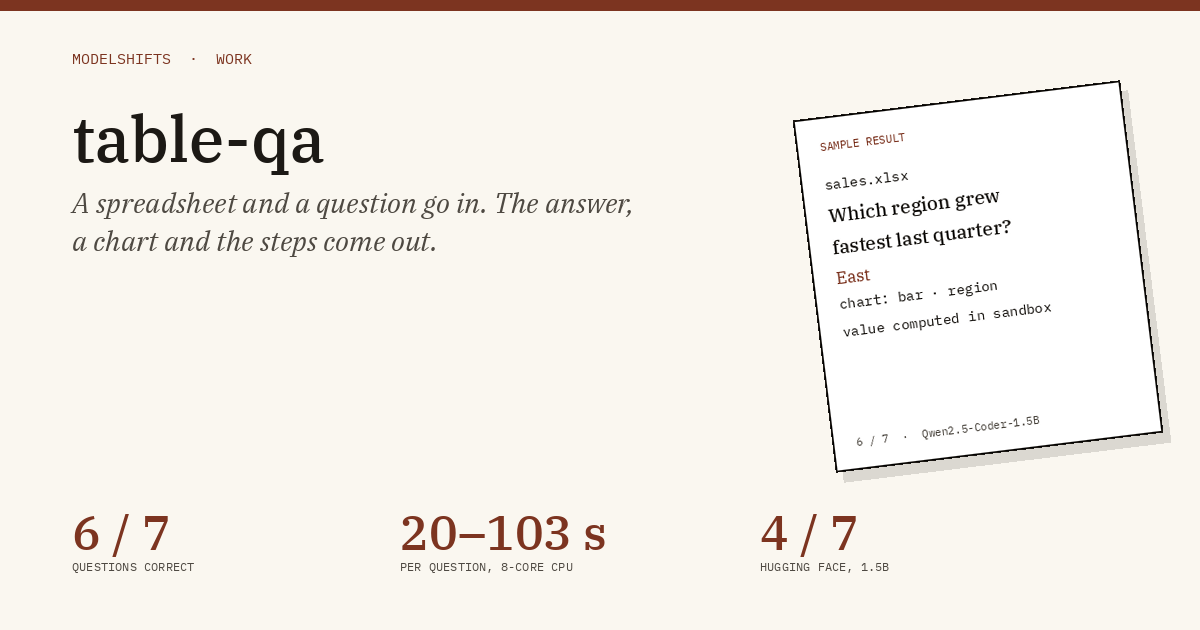
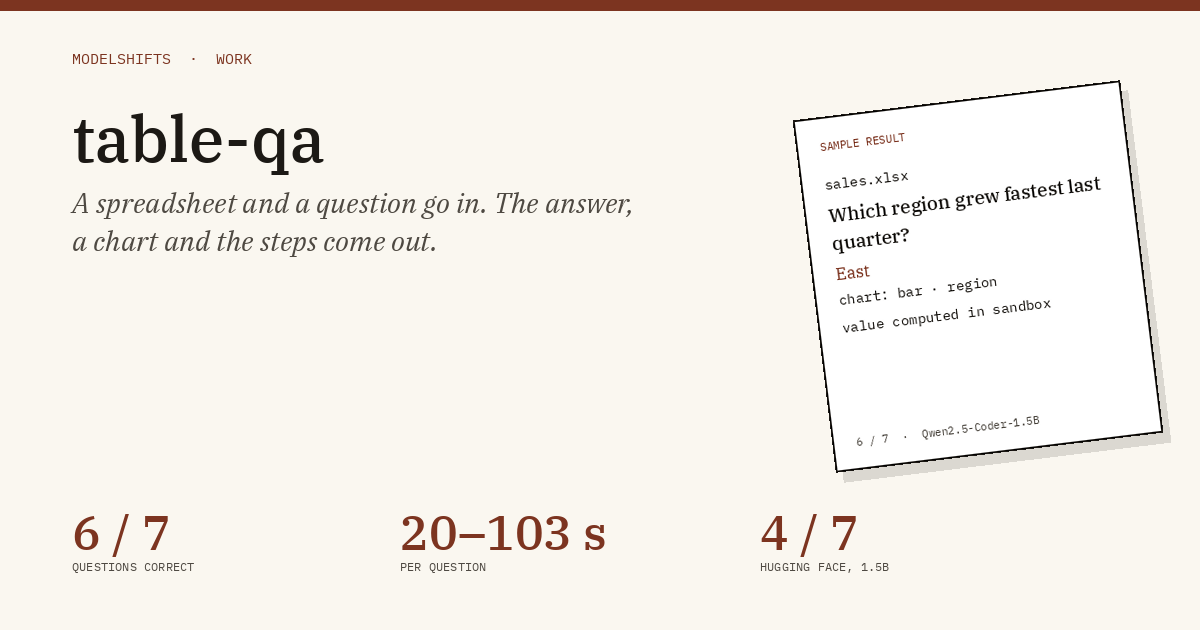
Drop the Notes section and test-condition wording.

Changed region(s): [[0.6783, 0.3619, 0.8942, 0.5429], [0.8325, 0.2714, 0.925, 0.3317], [0.4317, 0.8746, 0.4625, 0.9048]]

diff --git a/README.md b/README.md
@@ -13,9 +13,9 @@
 </p>
 
 <p align="center">
-  <img src="assets/demo.gif" alt="Web demo on a synthetic sales workbook: the question “Which region grew fastest last quarter?” is asked, and the answer East appears with a bar chart of growth by region and the steps that produced it." width="100%">
+  <img src="assets/demo.gif" alt="Web demo on a sales workbook: the question “Which region grew fastest last quarter?” is asked, and the answer East appears with a bar chart of growth by region and the steps that produced it." width="100%">
 </p>
-<p align="center"><sub>Web demo on the synthetic workbook (<a href="assets/demo.mp4">MP4</a>). The recording replays a result computed by Qwen2.5-Coder-1.5B-Instruct (Q4_K_M) on CPU.</sub></p>
+<p align="center"><sub>Web demo on the workbook (<a href="assets/demo.mp4">MP4</a>). The recording replays a result computed by Qwen2.5-Coder-1.5B-Instruct (Q4_K_M).</sub></p>
 
 <p align="center">
   <img src="assets/results.svg" alt="Evaluation highlights: 6 of 7 questions correct with the 1.5B model on the API backend; 20 to 103 seconds per question; 4 of 7 on the Hugging Face backend with the same 1.5B size." width="100%">
@@ -45,13 +45,13 @@ The pipeline is five steps.
 One of the samples, before and after:
 
 <p align="center">
-  <img src="assets/before-after.png" alt="Left: the profile of the synthetic workbook sales.xlsx, with sheets and column types. Right: the answer East to “Which region grew fastest last quarter?”, with a bar chart of growth by region." width="100%">
+  <img src="assets/before-after.png" alt="Left: the profile of the workbook sales.xlsx, with sheets and column types. Right: the answer East to “Which region grew fastest last quarter?”, with a bar chart of growth by region." width="100%">
 </p>
-<p align="center"><sub>Synthetic workbook <code>sales.xlsx</code>. Answer “East,” which matches the ground truth. Measured by <a href="scripts/evaluate.py"><code>scripts/evaluate.py</code></a>.</sub></p>
+<p align="center"><sub><code>sales.xlsx</code>. Answer “East,” which matches the ground truth. <a href="scripts/evaluate.py"><code>scripts/evaluate.py</code></a>.</sub></p>
 
 ## Results
 
-On seven questions against one synthetic sales workbook (and the same sales rows as a CSV), the API backend with Qwen2.5-Coder-1.5B-Instruct (Q4_K_M) got **6 of 7** values correct, in **20.1–103.5 seconds** per question on an 8-core CPU.
+On seven questions against one sales workbook (and the same sales rows as a CSV), the API backend with Qwen2.5-Coder-1.5B-Instruct (Q4_K_M) got **6 of 7** values correct, in **20.1–103.5 seconds** per question.
 
 The one miss is `top_region`: “Which region has the highest total revenue?” expected North and came back as East.
 
@@ -66,9 +66,9 @@ The one miss is `top_region`: “Which region has the highest total revenue?” 
 | csv_total_revenue | What is the total revenue? (sales.csv) | 43290 | 43290 | yes | 20.1 |
 | **All** | | | | **6/7** | **20.1–103.5** |
 
-**Methodology.** One synthetic workbook (`samples/sales.xlsx`, sheets `sales` and `returns`) and `samples/sales.csv`, seven questions in [`samples/questions.json`](samples/questions.json). All names and figures are fictional. A question counts as correct when the computed value matches that ground truth (dates as ISO, numbers exact, strings case-insensitive). The value comes from running the generated pandas in the sandbox, not from the wording of the sentence. “Last quarter” is the calendar quarter of the latest date; “grew fastest” is the largest percentage change in revenue between that quarter and the previous one. Run with [`python scripts/evaluate.py`](scripts/evaluate.py). API backend, Qwen2.5-Coder-1.5B-Instruct (Q4_K_M) behind a local llama.cpp server, 8-core CPU (15 GB RAM, no GPU), 12 November 2026. The raw table is in [`docs/eval.md`](docs/eval.md).
+**Methodology.** One workbook (`samples/sales.xlsx`, sheets `sales` and `returns`) and `samples/sales.csv`, seven questions in [`samples/questions.json`](samples/questions.json). A question counts as correct when the computed value matches that ground truth (dates as ISO, numbers exact, strings case-insensitive). The value comes from running the generated pandas in the sandbox, not from the wording of the sentence. “Last quarter” is the calendar quarter of the latest date; “grew fastest” is the largest percentage change in revenue between that quarter and the previous one. [`python scripts/evaluate.py`](scripts/evaluate.py). API backend, Qwen2.5-Coder-1.5B-Instruct (Q4_K_M) behind a local llama.cpp server, 12 November 2026. The raw table is in [`docs/eval.md`](docs/eval.md).
 
-On the same machine, the Hugging Face backend with Qwen2.5-Coder-1.5B-Instruct (and Qwen2.5-1.5B-Instruct for the sentence, loaded one at a time) got **4 of 7**. `top_region` was correct there; `top_product`, `fastest_growth` and `most_returns` failed (the generated code looked up a `units` column that is not on the sales sheet, or returned no value). Times were 34.5–137.9 seconds. The raw table is in [`docs/eval-hf.md`](docs/eval-hf.md). The 7B default models have not been measured here.
+The Hugging Face backend with Qwen2.5-Coder-1.5B-Instruct (and Qwen2.5-1.5B-Instruct for the sentence, loaded one at a time) got **4 of 7**. `top_region` was correct there; `top_product`, `fastest_growth` and `most_returns` failed (the generated code looked up a `units` column that is not on the sales sheet, or returned no value). Times were 34.5–137.9 seconds. The raw table is in [`docs/eval-hf.md`](docs/eval-hf.md).
 
 ## Why it matters
 
@@ -88,7 +88,7 @@ pip install -e ".[hf,demo]"      # open models; use ".[api,demo]" for the API ba
 cp .env.example .env              # choose a backend and models
 ```
 
-On a CPU-only machine, install the CPU build of PyTorch first (`pip install torch --index-url https://download.pytorch.org/whl/cpu`) and set `MS_SMALL=1` in `.env`. That selects the 1.5B models, which are the ones measured above. Models download from Hugging Face on first use.
+On a CPU-only machine, install the CPU build of PyTorch first (`pip install torch --index-url https://download.pytorch.org/whl/cpu`) and set `MS_SMALL=1` in `.env`. That selects the 1.5B models. Models download from Hugging Face on first use.
 
 ```bash
 # sheets, the detected header row, and columns
@@ -104,7 +104,7 @@ table-qa ask samples/sales.csv "What is the total revenue?"
 table-qa serve
 ```
 
-`samples/` holds the synthetic workbook and CSV, with a ground-truth file for the seven questions. All names and figures are fictional. Tests use a mocked model and need no downloads: `pip install -e ".[dev]" && pytest`.
+`samples/` holds the workbook and CSV, with a ground-truth file for the seven questions. Tests use a mocked model and need no downloads: `pip install -e ".[dev]" && pytest`.
 
 ## Backends
 
@@ -127,7 +127,7 @@ Pick one with `MS_BACKEND` in `.env`.
 | [`Qwen/Qwen2.5-Coder-7B-Instruct`](https://huggingface.co/Qwen/Qwen2.5-Coder-7B-Instruct) | planning and generating the analysis code | Apache-2.0 |
 | [`Qwen/Qwen2.5-7B-Instruct`](https://huggingface.co/Qwen/Qwen2.5-7B-Instruct) | writing the answer in plain language | Apache-2.0 |
 
-On a machine without a GPU, set `MS_SMALL=1`. That selects [`Qwen/Qwen2.5-Coder-1.5B-Instruct`](https://huggingface.co/Qwen/Qwen2.5-Coder-1.5B-Instruct) for the code and [`Qwen/Qwen2.5-1.5B-Instruct`](https://huggingface.co/Qwen/Qwen2.5-1.5B-Instruct) for the sentence. On CPU the two models are loaded one at a time. The 7B defaults need a GPU and have not been measured here.
+On a machine without a GPU, set `MS_SMALL=1`. That selects [`Qwen/Qwen2.5-Coder-1.5B-Instruct`](https://huggingface.co/Qwen/Qwen2.5-Coder-1.5B-Instruct) for the code and [`Qwen/Qwen2.5-1.5B-Instruct`](https://huggingface.co/Qwen/Qwen2.5-1.5B-Instruct) for the sentence. On CPU the two models are loaded one at a time. The 7B defaults need a GPU.
 
 To try the API backend without a paid key, run an open model behind a local OpenAI-compatible server, for example [llama-cpp-python](https://github.com/abetlen/llama-cpp-python):
 
@@ -142,13 +142,6 @@ python -m llama_cpp.server --model models/qwen2.5-coder-1.5b-instruct-q4_k_m.ggu
 Generated code runs in a subprocess with a timeout, no new sockets, and a read-only copy of the file. The original file is not modified. One header row per sheet is supported; merged cells, pivot layouts and `.xls` files are not. Macros are not run.
 
 </details>
-
-## Notes
-
-- Measured on one synthetic workbook and seven questions, not on real workbooks.
-- The 6/7 figure is for Qwen2.5-Coder-1.5B-Instruct (Q4_K_M) on the API backend. The same size on the Hugging Face backend got 4/7. The 7B defaults have not been measured here.
-- The sentence is the model’s wording of the computed value. The value itself comes from running the code.
-- The sandbox is a restriction, not a multi-user security boundary.
 
 ## Roadmap
 
